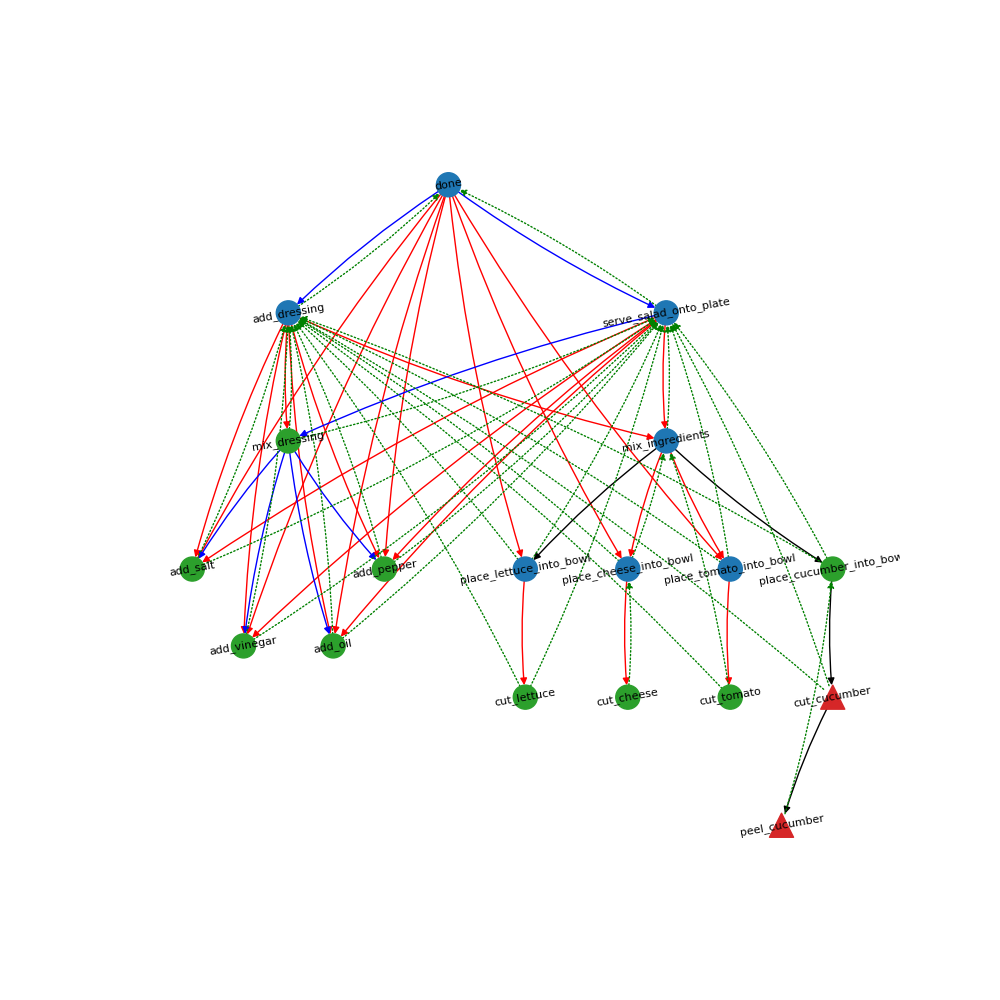
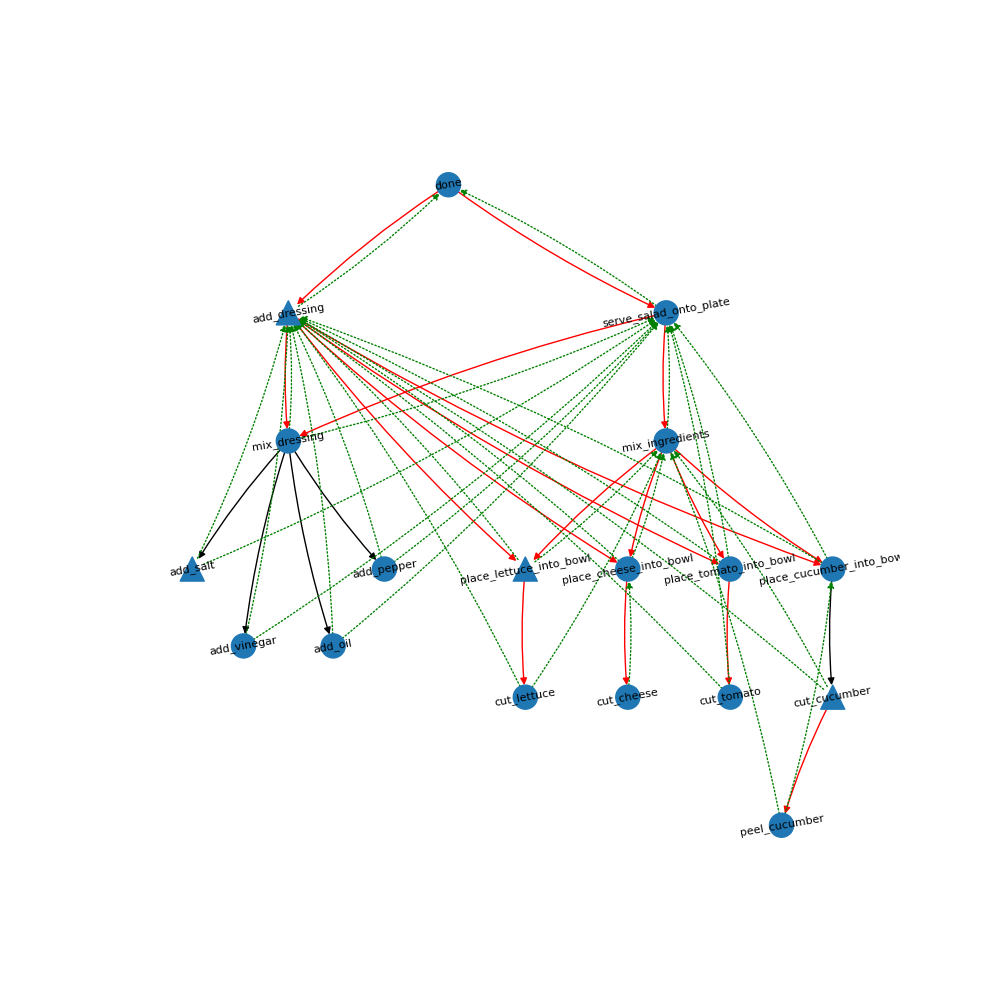
Tidy graph_runner and combined_graph codes

diff --git a/combined_graph.py b/combined_graph.py
@@ -90,19 +90,12 @@ def reconstruct_graph(graph):
     # Add all edges to lower nodes
     for i, node in enumerate(graph.get_node_list()):
         for l_node in node.get_lowers():
-            # if l_node not in node.get_edge_c_nodes():
-            #     node.add_edge(l_node, 'lower')
             node.add_edge(l_node, 'lower')
 
     # Add all edges to higher nodes
     for i, node in enumerate(graph.get_node_list()):
         for h_node in node.get_highers():
-            # if h_node not in node.get_edge_c_nodes():
-            #     h_node.add_edge(node, 'higher')
             h_node.add_edge(node, 'higher')
-
-    draw_graph(graph)
-    input()
 
     # Remove shortcut edges from triangles
     changed = True
@@ -119,10 +112,6 @@ def reconstruct_graph(graph):
                     changed = True
                 else:
                     j += 1
-
-    draw_graph(graph)
-    input()
-    graph1 = copy.deepcopy(graph)
 
     changed = True
     while changed:
@@ -179,14 +168,6 @@ def reconstruct_graph(graph):
                 for _, p_node, p_edge_type in remove_list:
                     p_node.remove_edge(node, 'higher')
                     p_node.add_edge(node, 'new')
-                    
-    draw_graph(graph)
-    input()
-    draw_graph(graph1)
-    input()
-    draw_graph(graph)
-    input()
-    
 
     for i, node in enumerate(graph.get_node_list()):
         node_edges = node.get_edges().copy()
@@ -239,15 +220,7 @@ def draw_graph(graph):
     nodelist = DG.nodes(data=True)
     edgelist = DG.edges(data=True)
 
-    try:
-        # pos = nx.shell_layout(DG)
-        pos = hierarchy_pos_50salads(DG, 'done')
-        # nx.draw_networkx_nodes(DG, pos=pos, node_color=node_color)
-    except Exception as e:
-        print(e)
-        # pos = nx.kamada_kawai_layout(DG)
-        pos = nx.shell_layout(DG)
-        # nx.draw_networkx_nodes(DG, pos=pos)
+    pos = hierarchy_pos_50salads(DG, 'done')
     
     for optional, shape in NODE_SHAPES:
         nodes = [n for (n, d) in nodelist if d["is_optional"] == optional]
@@ -276,7 +249,7 @@ EDGE_COLOR = "green"
 
 EDGE_STYLES = [
     ('lower', 'solid', 'red'), 
-    ('higher', 'solid', 'blue'),
+    ('higher', 'dashed', 'blue'),
     ('new', 'solid', 'black'),
     ('after', 'dotted', 'green')
 ]
@@ -311,7 +284,7 @@ if __name__ == "__main__":
     # plot_list = ['26-2', '26-1']
 
     # WHY BLACK IS ADDED
-    # plot_list = ['26-2', '26-1', '04-2', '16-1', '12-2', '07-2', '07-1', '13-2', '06-2', '16-2', '12-1', '11-1', '26-2', '04-1', '26-1', '14-2', '03-1', '24-1', '21-1', '27-1', '22-1']
+    plot_list = ['26-2', '26-1', '04-2', '16-1', '12-2', '07-2', '07-1', '13-2', '06-2', '16-2', '12-1', '11-1', '26-2', '04-1', '26-1', '14-2', '03-1', '24-1', '21-1', '27-1', '22-1']
 
     # plot_list = ['25-1', '20-1', '06-1', '20-2', '16-2', '01-1', '08-2', '01-2', '18-1', '10-1', '05-2', '07-2', '12-1', '02-2', '13-1', '23-2', '15-1', '09-1', '07-1', '22-1', '04-2', '14-1', '27-1', '02-1', '12-2', '13-2', '10-2', '17-2', '05-1', '27-2']
     # plot_list = ['25-1', '20-1', '06-1', '20-2', '16-2', '08-2', '01-2', '18-1', '10-1', '05-2', '07-2', '12-1', '02-2', '13-1', '23-2', '15-1', '09-1', '07-1', '22-1', '04-2', '14-1', '27-1', '02-1', '12-2', '13-2', '10-2', '17-2', '05-1', '27-2']
@@ -325,7 +298,7 @@ if __name__ == "__main__":
     # plot_list = ['09-1', '22-2', '25-1', '23-1', '08-1', '06-2', '10-2', '18-1', '21-2', '15-1', '01-2', '03-1', '04-2', '05-1', '16-1', '20-1', '17-2', '12-1', '14-2', '21-1']
     # plot_list = ['25-2', '03-2', '22-1', '12-2', '05-2', '27-1', '15-2', '10-1', '09-1', '12-1', '13-2', '04-2', '14-2', '18-1', '17-1', '08-1', '20-2', '19-2', '13-1', '21-2']
     # plot_list = ['09-1', '16-2', '07-2', '24-1', '06-1', '01-2', '09-2', '18-2', '20-1', '25-2', '16-1', '19-1', '10-2', '18-1', '04-2', '21-2', '26-1', '11-2', '25-1', '26-2']
-    plot_list = ['17-1', '17-2', '09-2', '03-1', '01-1', '08-2', '11-1', '15-2', '10-1', '26-2', '16-2', '22-1', '12-2', '20-1', '12-1', '19-2', '26-1', '02-1', '06-2', '04-1']
+    # plot_list = ['17-1', '17-2', '09-2', '03-1', '01-1', '08-2', '11-1', '15-2', '10-1', '26-2', '16-2', '22-1', '12-2', '20-1', '12-1', '19-2', '26-1', '02-1', '06-2', '04-1']
 
     # plot_list = ["{:02}-{}".format(i, j) for i in range(1,28) for j in [1, 2]]
     # random.shuffle(plot_list)
@@ -343,5 +316,11 @@ if __name__ == "__main__":
     graph_object = reconstruct_graph(graph_object)
     draw_graph(graph_object)
 
-    gr = graph_runner.GraphRunner(graph_object, all_action_list)
+    # To test with user inputted actions
+    gr = graph_runner.GraphRunner(graph_object)
     gr.run()
+
+    # To test videos used to create the graph
+    # for action_list in all_action_list:
+    #     gr = graph_runner.GraphRunner(graph_object, action_list)
+    #     gr.run()

diff --git a/graph_runner.py b/graph_runner.py
@@ -24,59 +24,68 @@ A grey node is COMPLETE if:
 """
 
 class GraphRunner():
-    def __init__(self, graph, all_action_list):
+    def __init__(self, graph, action_list=None):
         self.orig_graph = graph
         self.graph = copy.deepcopy(graph)
-        self.all_action_list = all_action_list
-        self.cur_action_list_idx = 0
-        self.cur_action_list = all_action_list[self.cur_action_list_idx]
-        self.cur_action_idx = 0
+        self.action_list = action_list
+        self.action_idx = 0
+        self.action_log = []
+        self.test_video = action_list != None
 
-    def reset(self):
-        self.graph = copy.deepcopy(self.orig_graph)
-        self.cur_action_list_idx += 1
-        self.cur_action_idx = 0
+    def draw_graph(self):
+        if self.test_video:
+            return
+        from combined_graph import draw_graph
+        draw_graph(self.graph)
 
     def run(self):
-        from combined_graph import draw_graph
-        for action_list in self.all_action_list:
-            self.update_node_states()
-            runnable_nodes = self.get_runnable_nodes()
-            done_node = self.graph.get_node('done')
-            while not self.is_complete(done_node):
-                draw_graph(self.graph)
-                self.print_nodes(runnable_nodes)
-                choice = self.get_next_action()
-                choice_node = self.graph.get_node(choice)
-                self.execute_node(choice_node)
-                self.update_node_states()
-                runnable_nodes = self.get_runnable_nodes()
-            draw_graph(self.graph)
-            input('Next?')
-            self.reset()
+        self.update_node_states()
+        done_node = self.graph.get_node('done')
+        while not self.is_complete(done_node):
+            self.draw_graph()
+            self.show_executable_nodes()
+            next_action = self.get_next_action()
+            while not next_action:
+                next_action = self.get_next_action()
+            self.execute_node(next_action)
+            
+        self.draw_graph()
+        print('\nDone! Executed actions:')
+        for action in self.action_log:
+            print(action, end=', ')
 
     def print_nodes(self, nodes):
+        print("Executable nodes: ", end='')
         for node in nodes:
             print(node, end=', ')
         print()
 
     def get_next_action(self):
-        action = input()
-        # action = self.cur_action_list[self.cur_action_idx]
-        # self.cur_action_idx += 1
-        # print(action)
+        if self.test_video:
+            action = self.action_list[self.action_idx]
+            self.action_idx += 1
+            print("Node to execute: " + action)
+        else:
+            action = input("Node to execute: ")
+        action_node = self.graph.get_node(action)
 
-        return action
+        if not action_node:
+            return False
+        
+        if not self.is_executable(action_node):
+            print("Node {} is not executable!".format(action_node.name))
+            return False
+
+        self.action_log.append(action_node)
+        return action_node
 
     def execute_node(self, node):
-        if not self.is_executable(node):
-            print("Not executable! Current state of node {} is {}!".format(node.name, node.state))
-            return
-                
         node.executed = True
+        self.update_node_states()
 
-    def get_runnable_nodes(self):
-        return [node for node in self.graph.get_node_list() if self.is_executable(node)]
+    def show_executable_nodes(self):
+        executable_nodes = [node for node in self.graph.get_node_list() if self.is_executable(node)]
+        self.print_nodes(executable_nodes)
 
     def update_node_states(self):
         changed = True
